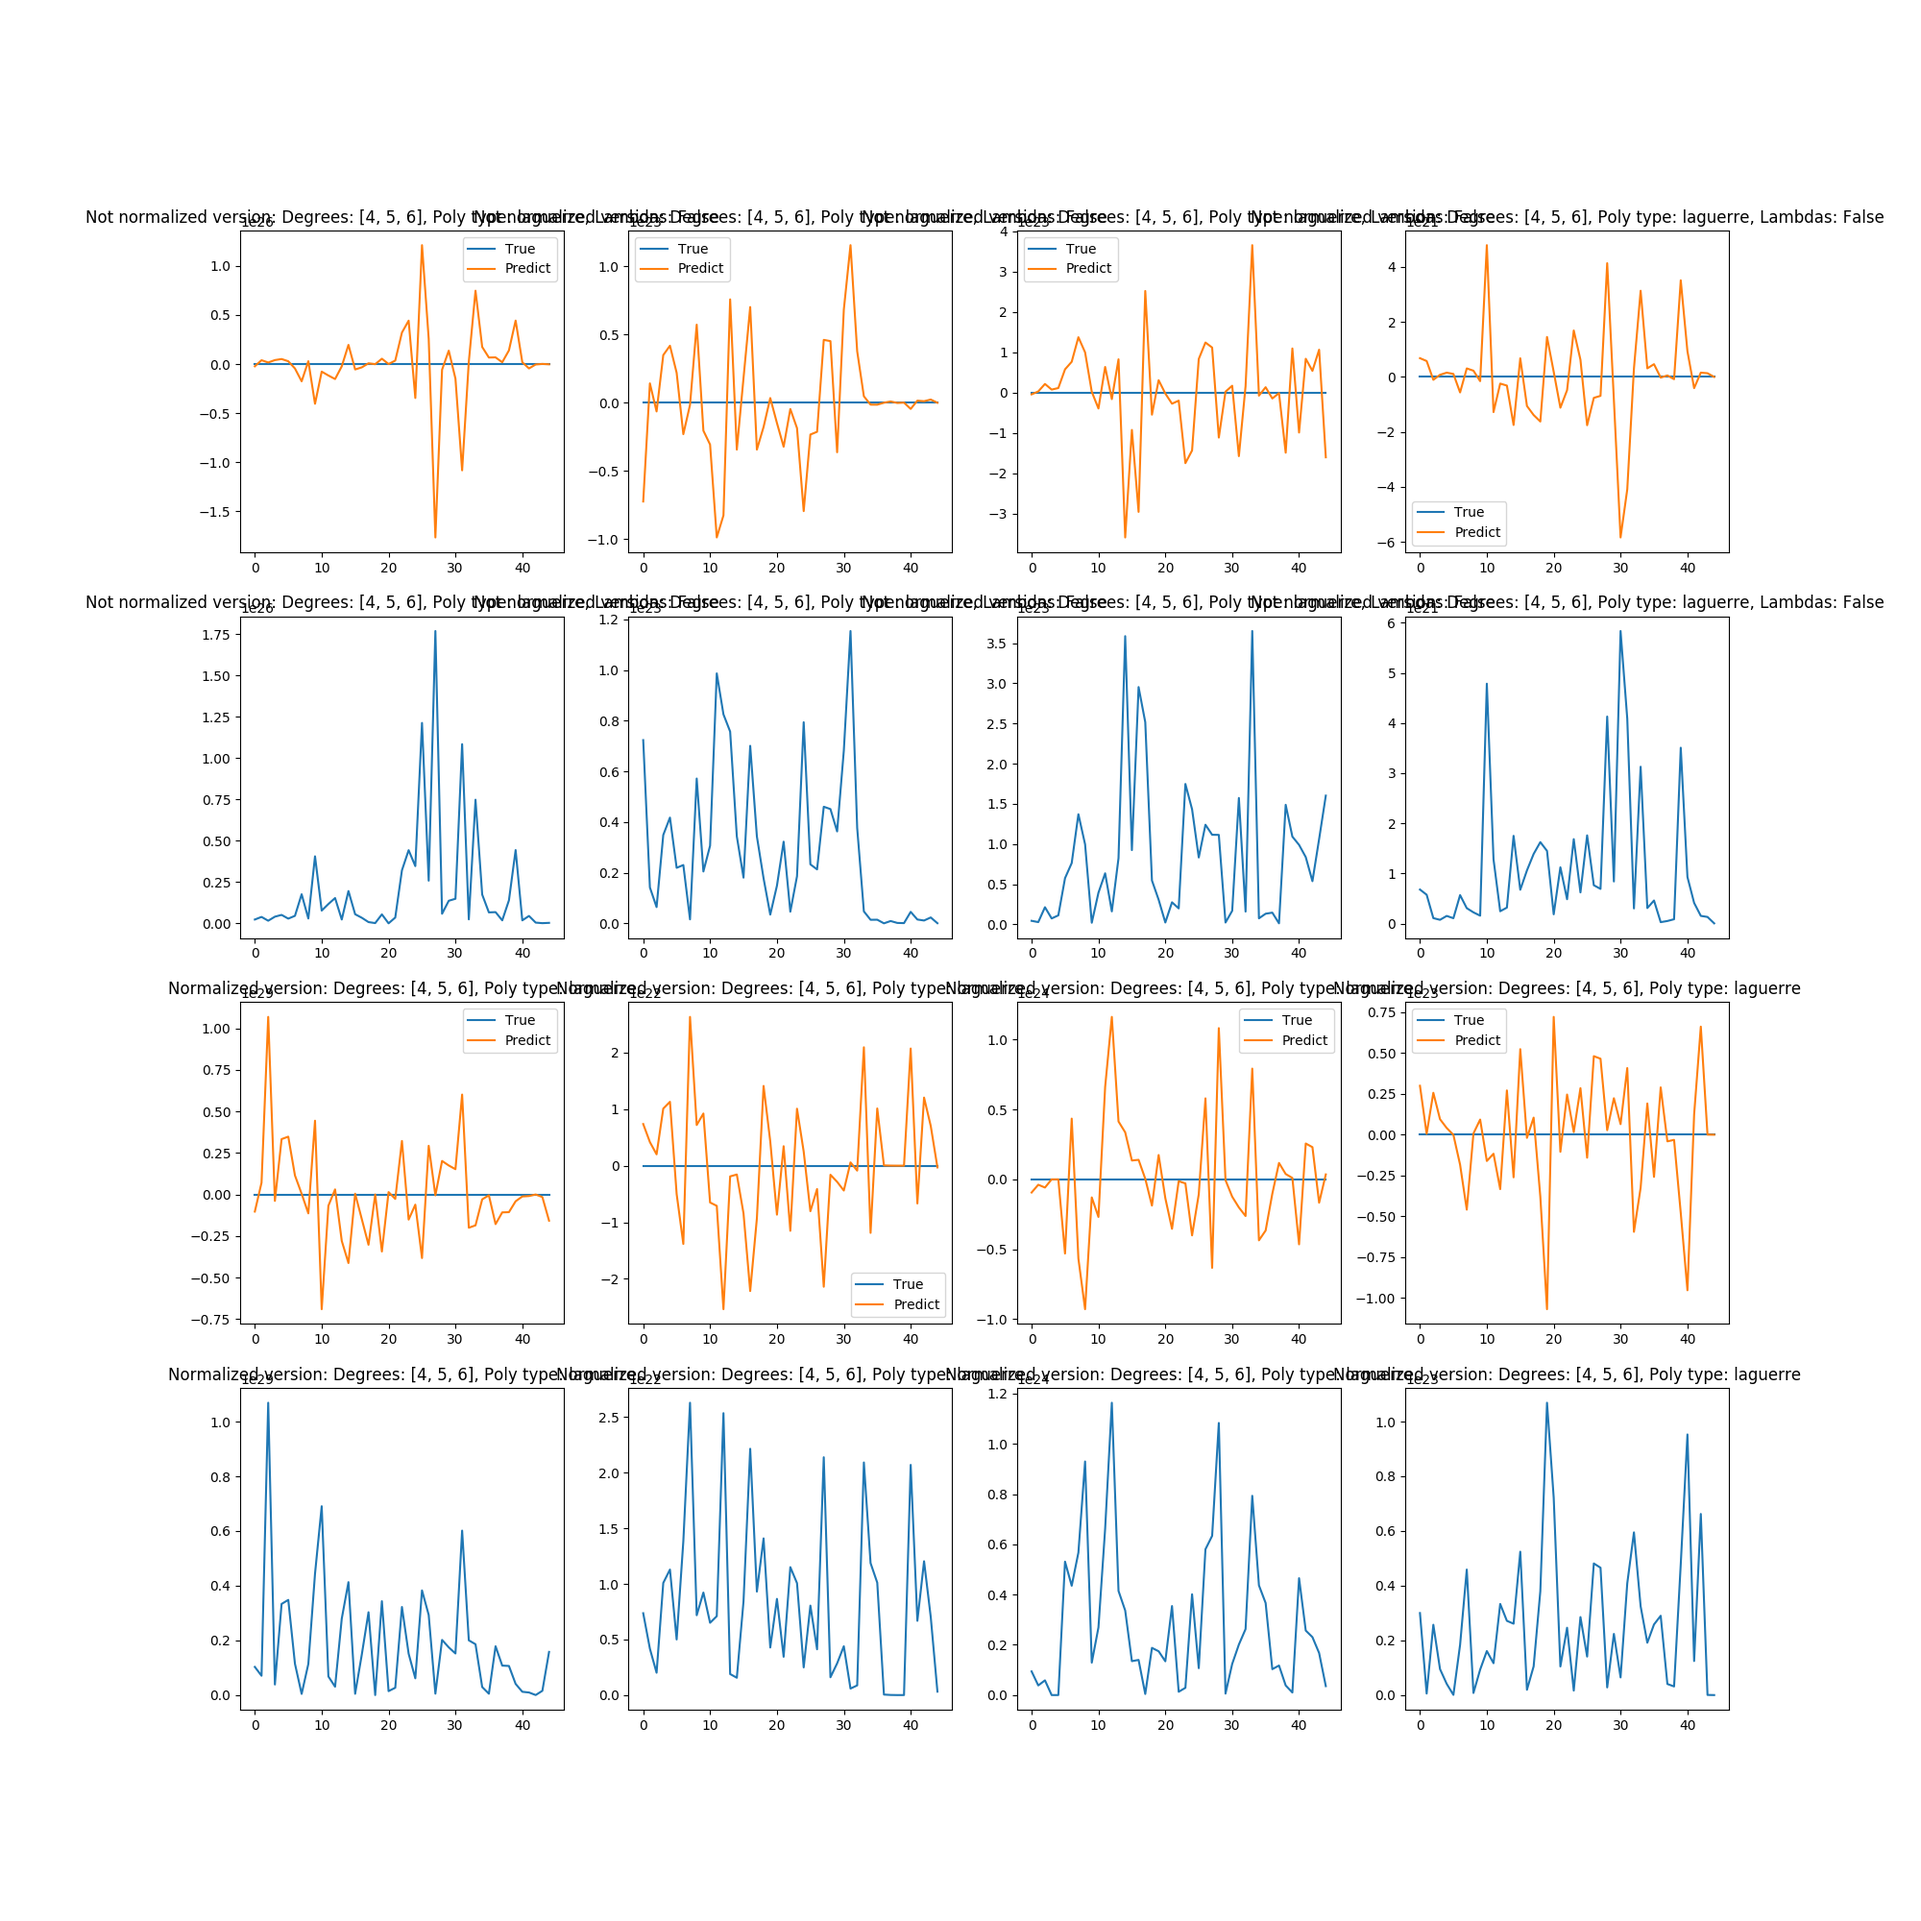
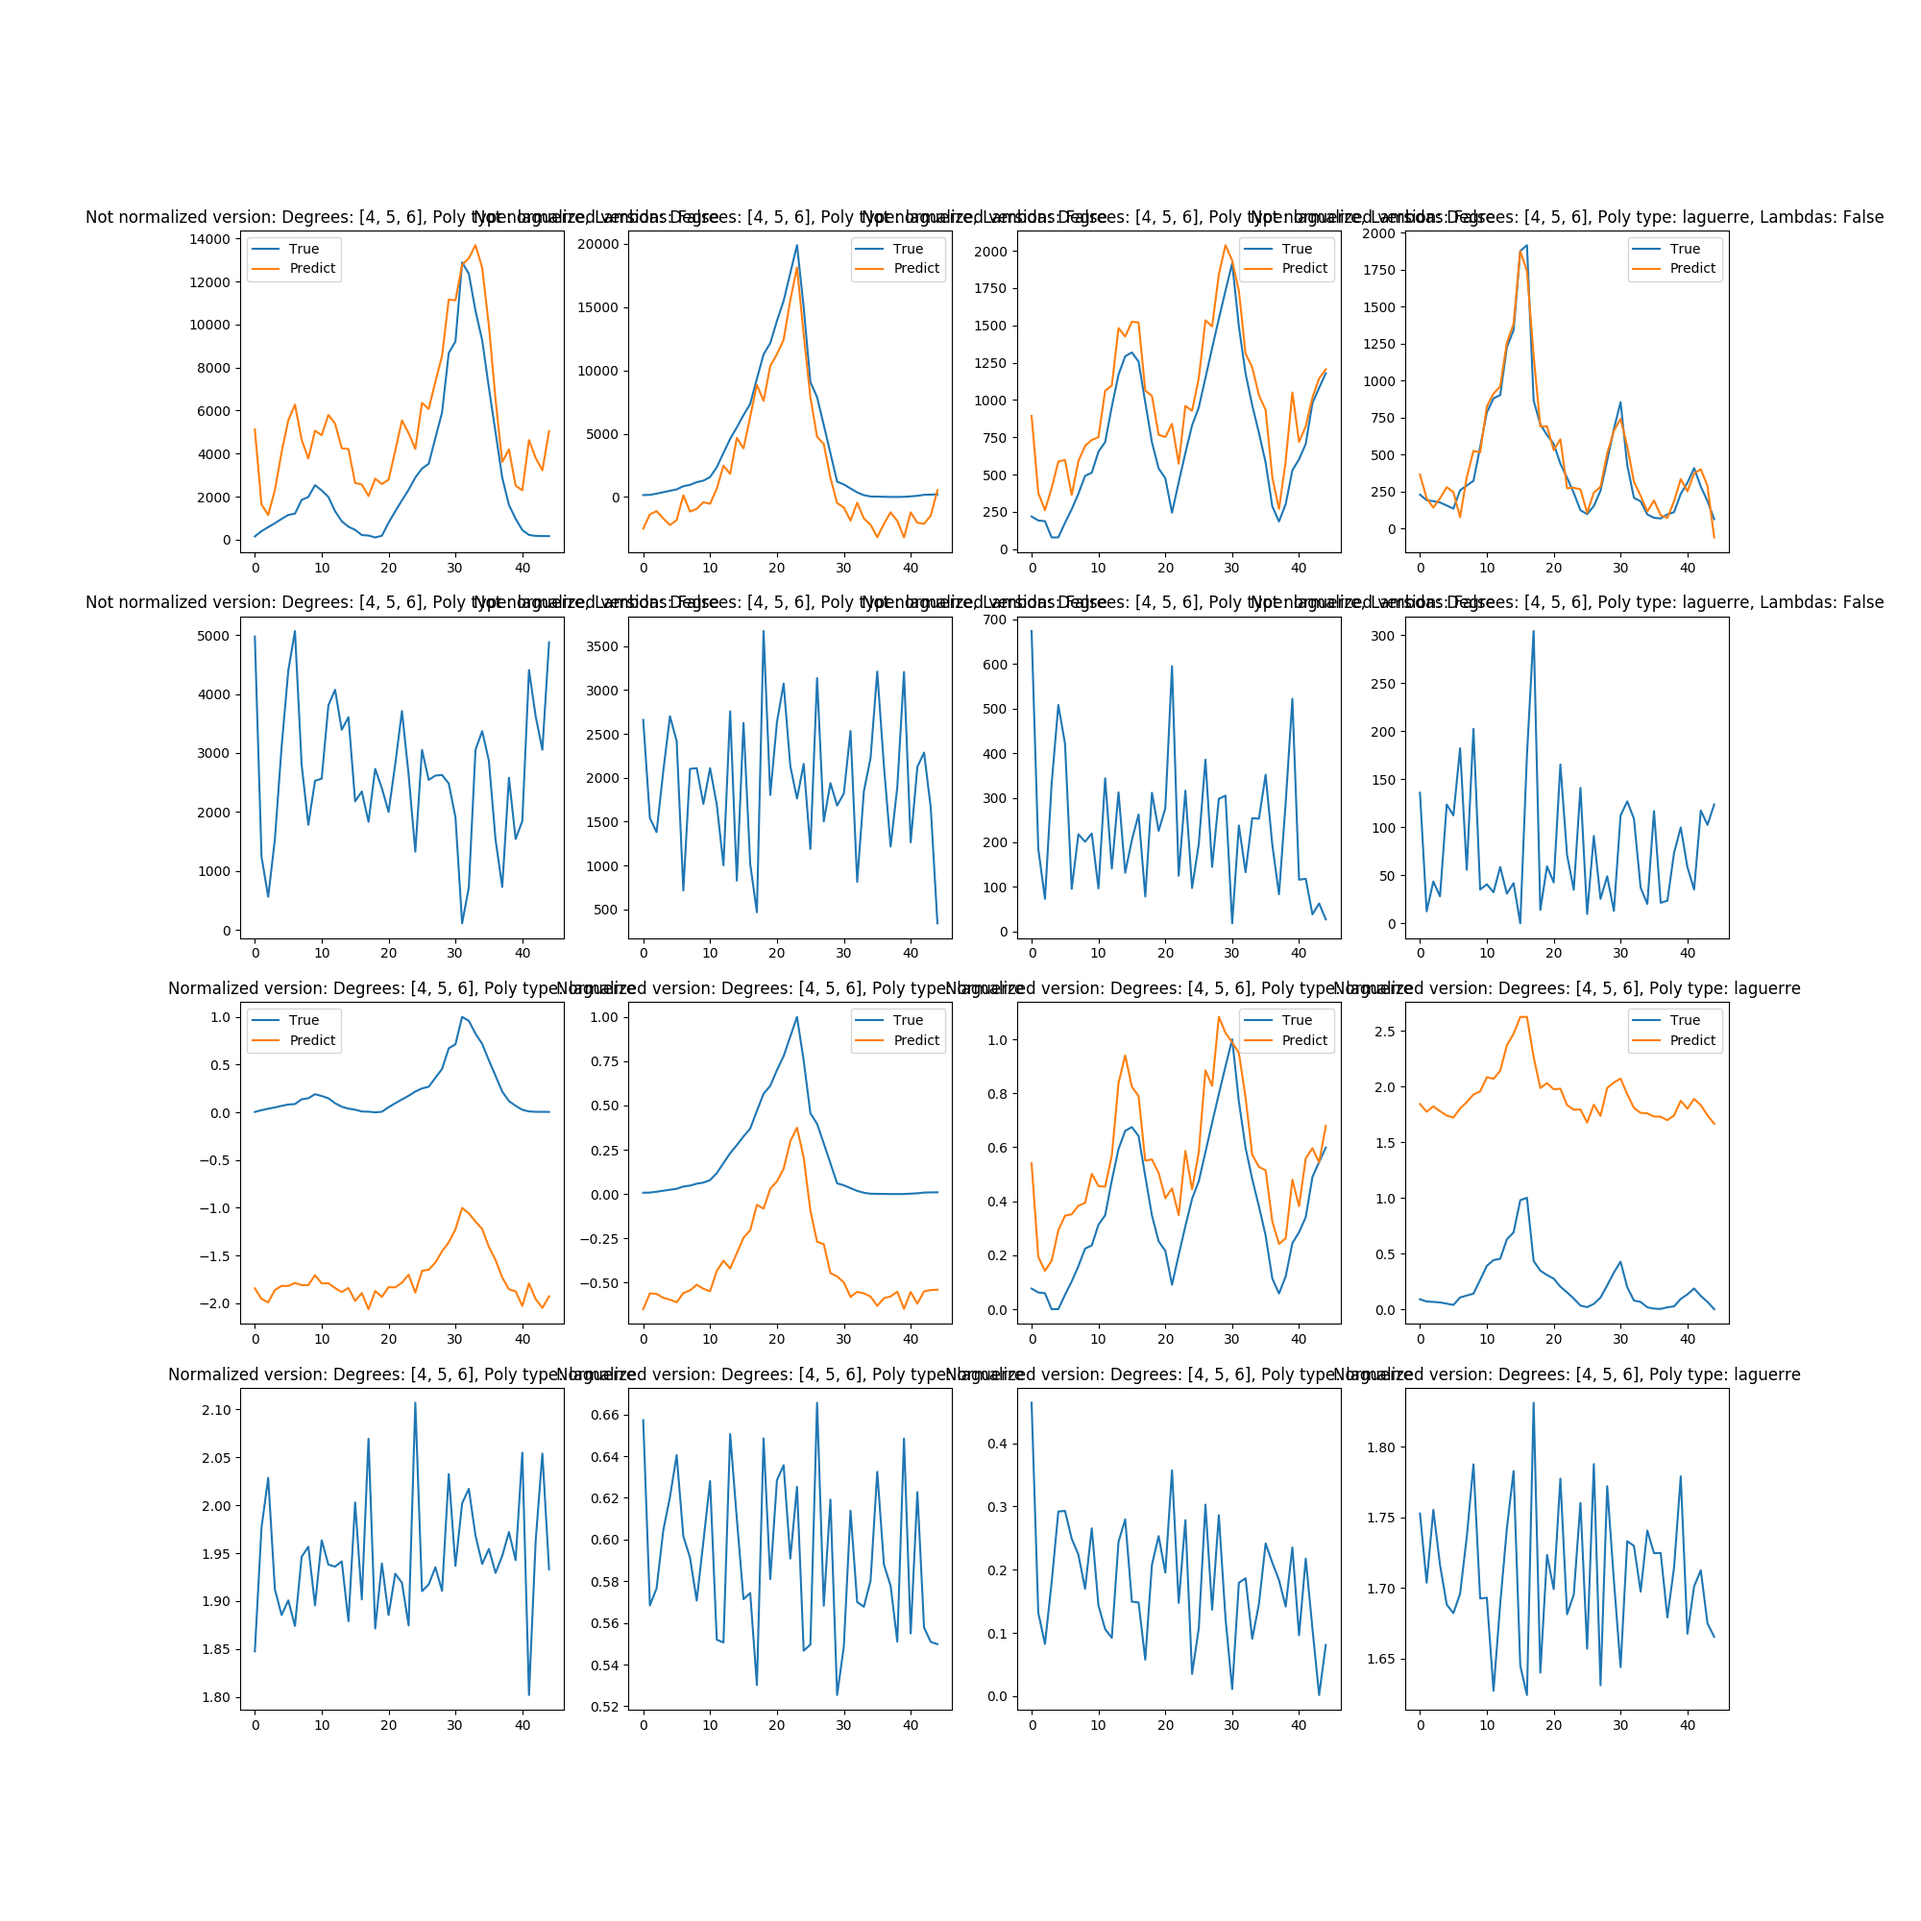
some changes for coordinate descent

diff --git a/task_solution.py b/task_solution.py
@@ -47,7 +47,7 @@ class Solve(object):
         elif self.solving_method == 'conjucate':
             return cg(np.dot(A, A.T), b, tol=self.eps)[0] #conjugate_gradient_method(A, b, self.eps)
         elif self.solving_method == 'coordDesc':
-            return Lasso().fit(A, b).coef_ #coordinate_descent(A, b, self.eps) #Ridge().fit(A, b).coef_
+            return Ridge(alpha=self.eps).fit(A, b).coef_ #coordinate_descent(A, b, self.eps) #Ridge().fit(A, b).coef_
         else:
             raise MethodNotFilledException
 
@@ -361,6 +361,9 @@ class Solve(object):
         coefs_normalized = self._get_coefs(Fi_normalized, b_normalized)
         fitnes_result_normalized, error_normalized = self._get_fitness_function(Fi_normalized, b_normalized,
                                                                                 coefs_normalized)
+        if self.solving_method == 'coordDesc':
+            fitnes_result_normalized = [(el - min(el)) / (max(el) - min(el)) for el in fitnes_result_normalized]
+            error_normalized = [(el - min(el)) / (max(el) - min(el)) for el in error_normalized]
 
         self._save_data(prepared_data, normalized_data, pd.DataFrame(A), pd.DataFrame(A_normalized), lambdas, lambdas_normalized,
                         psi, psi_normalized, pd.DataFrame(A1),
